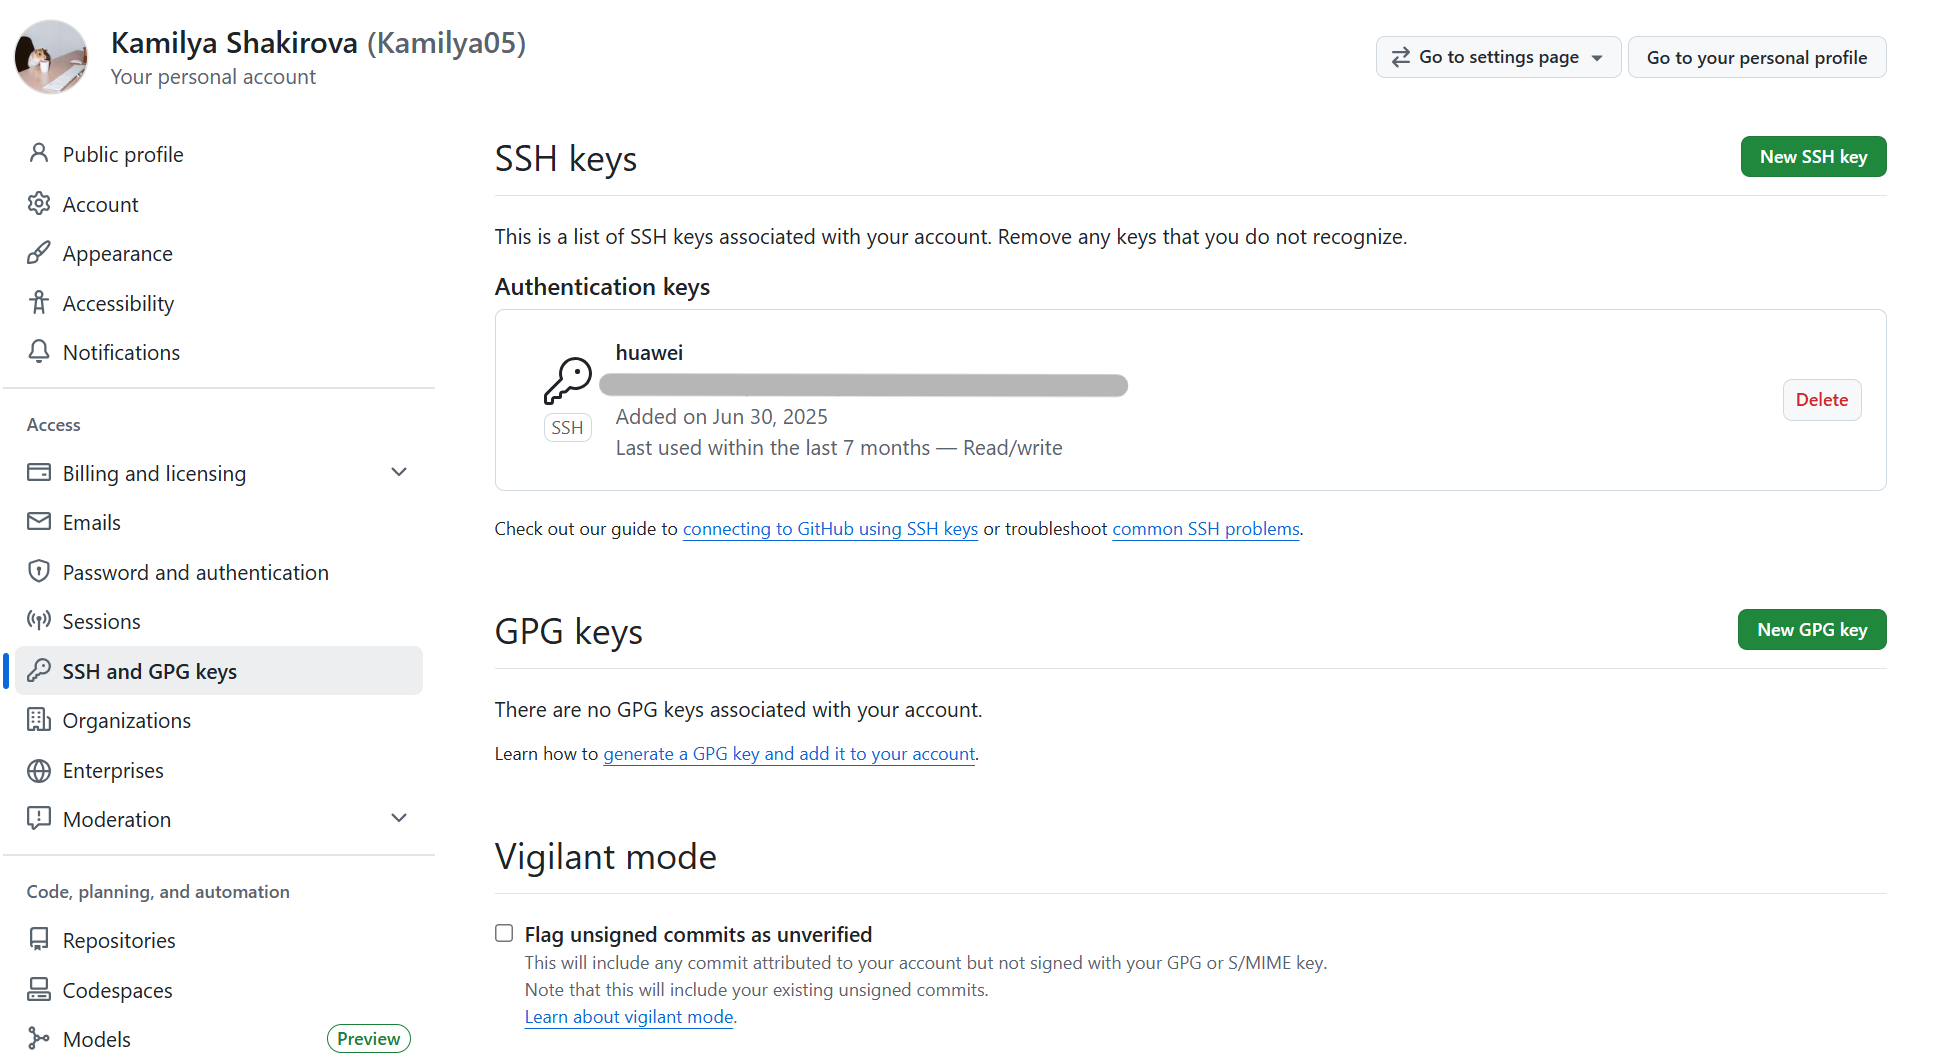
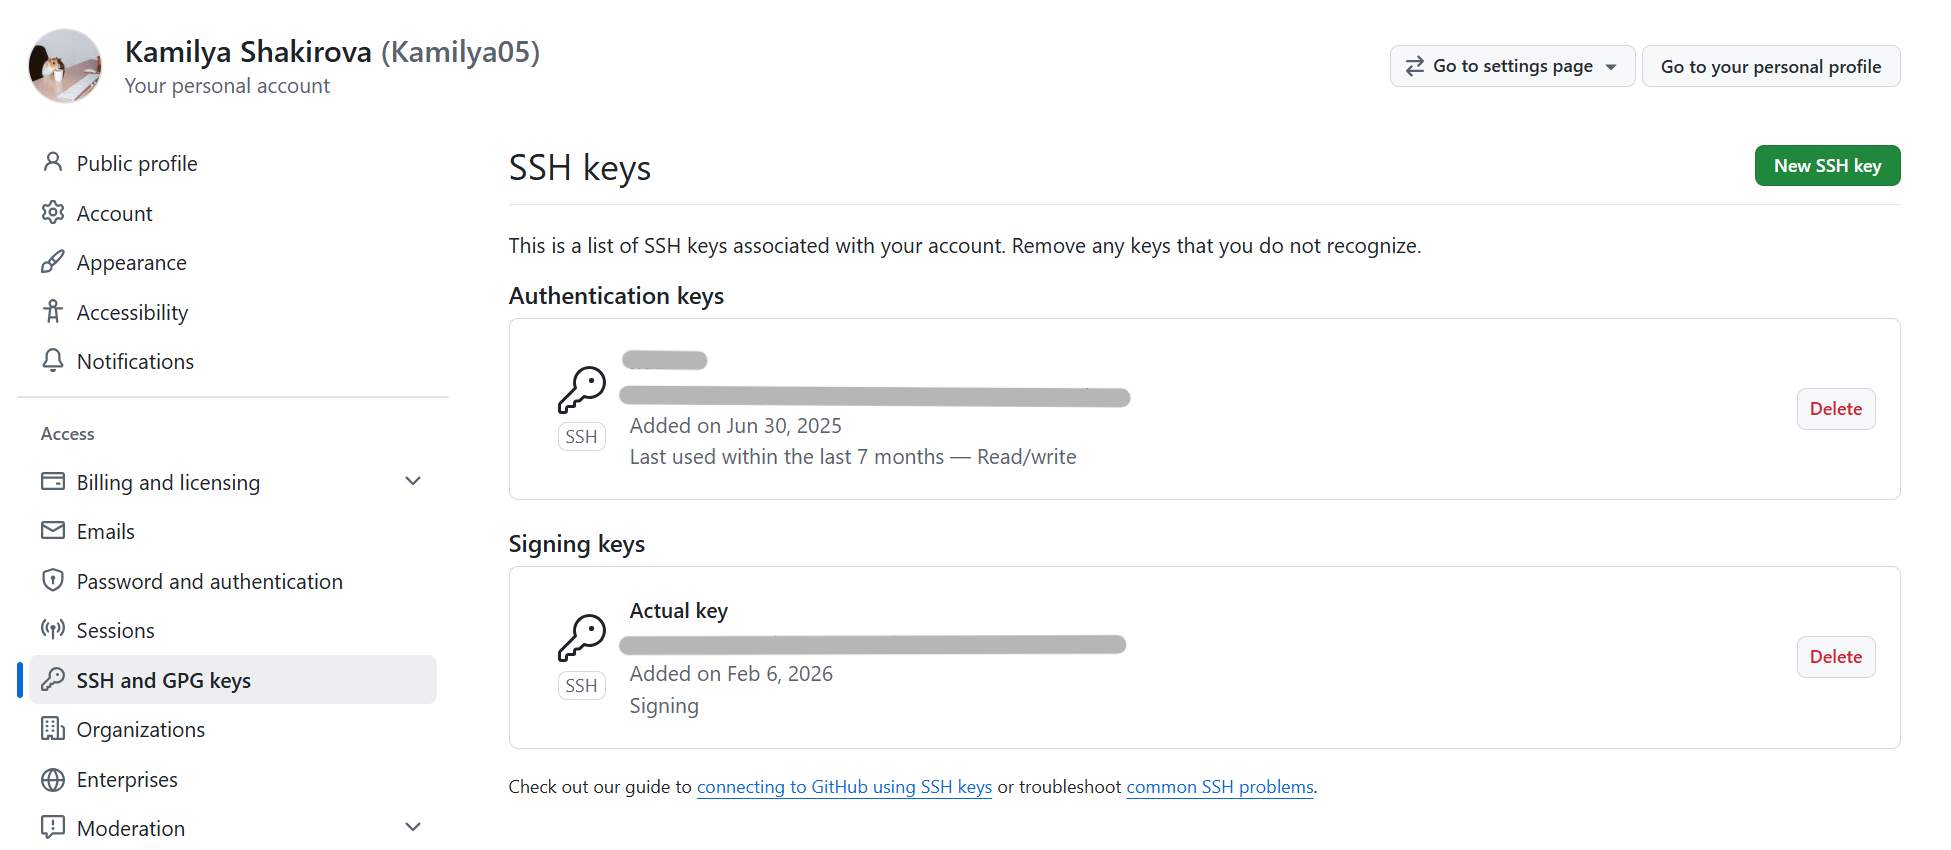
docs: lab1 submission

diff --git a/labs/submission1.md b/labs/submission1.md
@@ -27,3 +27,83 @@ In DevOps, processes are automated: code is automatically included in testing, a
 ### 1.2 GitHub SSH key
 Result:
 ![alt text](images/image01.png)
+
+### 1.3 Make a Signed Commit
+```
+PS D:\Programs\DevOps-Intro> git add labs/submission1.md
+PS D:\Programs\DevOps-Intro> git commit -S -m "docs: add commit signing summary"
+[feature/lab1 bb2d7f6] docs: add commit signing summary
+ 1 file changed, 29 insertions(+)
+ create mode 100644 labs/submission1.md
+```
+Result:
+![alt text](images/image02.png)
+
+
+## Task 2 — PR Template & Checklist
+
+[X] Screenshot of PR template auto-filling the description.
+
+[X] Evidence that .github/pull_request_template.md exists on main branch.
+
+[X] Analysis of how PR templates improve collaboration.
+
+[X] Note any challenges encountered during setup.
+
+### 2.1 Create PR Template
+
+PR templates transform pull requests from informal notes to structured, actionable artifacts that streamline collaboration, improve code quality, and accelerate delivery cycles in DevOps teams.
+
+```
+PS D:\Programs\DevOps-Intro> git status       
+On branch main
+Your branch is up to date with 'origin/main'.
+
+nothing to commit, working tree clean
+PS D:\Programs\DevOps-Intro> mkdir -Force .github
+
+
+    Каталог: D:\Programs\DevOps-Intro
+
+
+Mode                 LastWriteTime         Length Name
+----                 -------------         ------ ----
+d-----        06.02.2026     18:38                .github
+
+
+PS D:\Programs\DevOps-Intro> git add .github/pull_request_template.md
+PS D:\Programs\DevOps-Intro> git commit -m "chore: add PR template"
+[main 54bd17f] chore: add PR template
+ 1 file changed, 14 insertions(+)
+ create mode 100644 .github/pull_request_template.md
+PS D:\Programs\DevOps-Intro> git push origin main
+```
+
+### 2.2 Create Lab Branch and Open PR
+```
+PS D:\Programs\DevOps-Intro> git checkout -b feature/lab1
+Switched to a new branch 'feature/lab1'
+PS D:\Programs\DevOps-Intro> git status
+On branch feature/lab1
+nothing to commit, working tree clean
+PS D:\Programs\DevOps-Intro> New-Item -Path labs/submission1.md -ItemType File
+
+
+    Каталог: D:\Programs\DevOps-Intro\labs
+
+
+Mode                 LastWriteTime         Length Name
+----                 -------------         ------ ----
+-a----        06.02.2026     18:40              0 submission1.md
+
+
+PS D:\Programs\DevOps-Intro> git add labs/submission1.md
+PS D:\Programs\DevOps-Intro> git commit -S -m "docs: add commit signing summary"
+[feature/lab1 bb2d7f6] docs: add commit signing summary
+ 1 file changed, 29 insertions(+)
+ create mode 100644 labs/submission1.md
+```
+
+### 2.3 Verify Template Application
+
+![alt text](images/image03.png)
